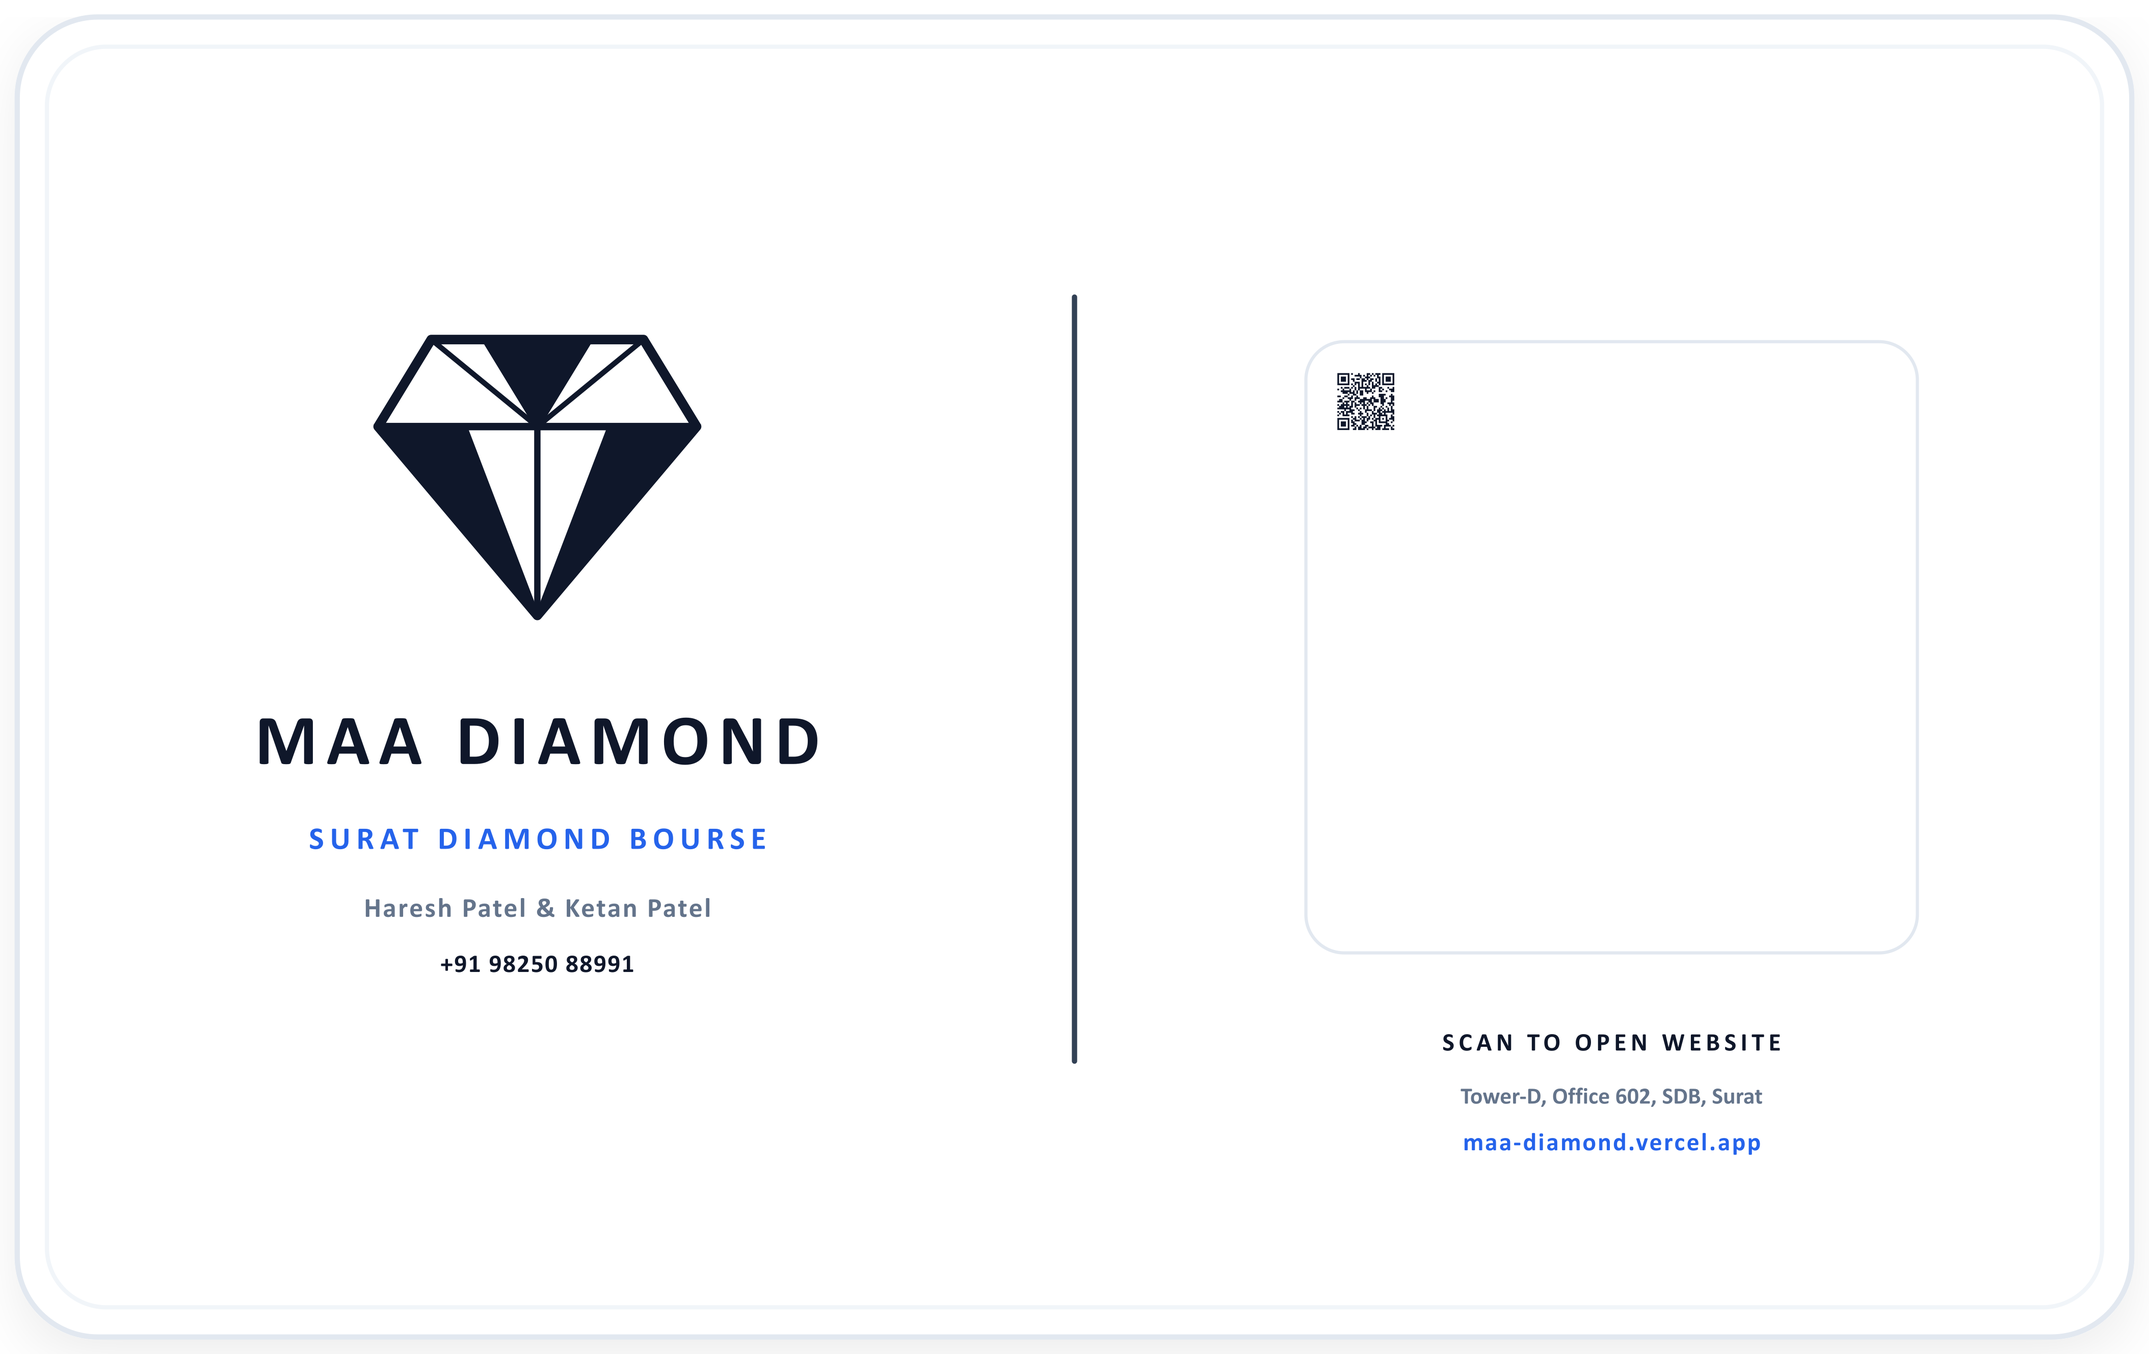
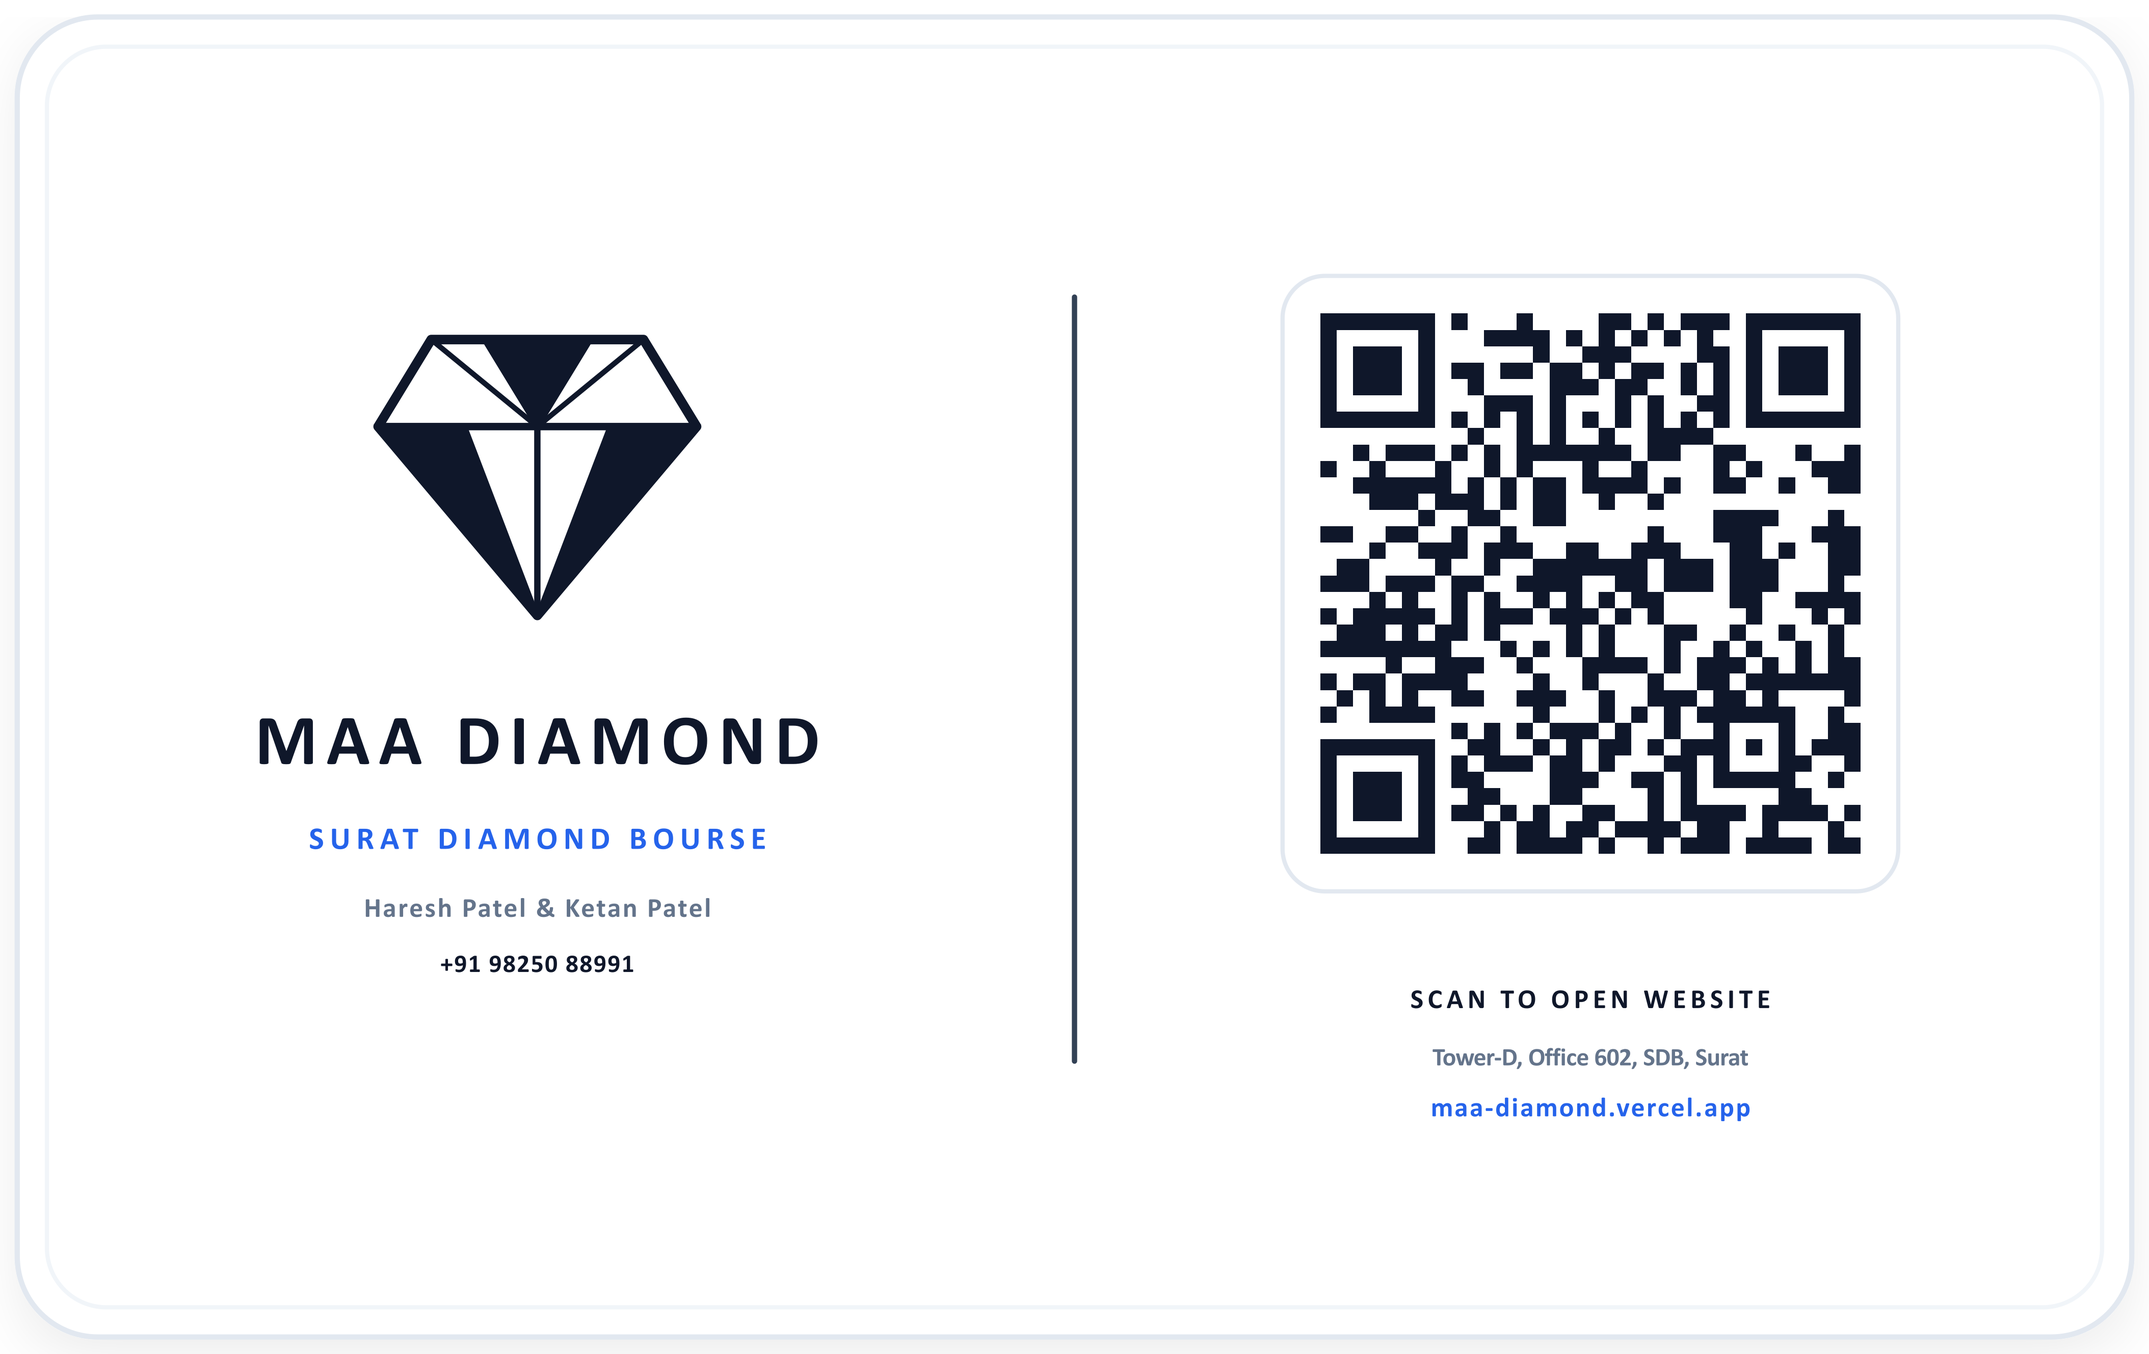
fix: resize QR code on card to full 270px container and update card studio generator

Changed region(s): [[0.5902, 0.2186, 0.9009, 0.6558], [0.6524, 0.7182, 0.8387, 0.8743]]

diff --git a/frontend/src/app/card-studio/page.tsx b/frontend/src/app/card-studio/page.tsx
@@ -79,12 +79,14 @@ export default function CardStudioPage() {
       },
     });
 
+    const viewBoxMatch = rawQrSvg.match(/viewBox="0 0 (\d+) (\d+)"/);
+    const vbSize = viewBoxMatch ? parseInt(viewBoxMatch[1], 10) : 35;
     const qrInner = rawQrSvg.replace(/<svg[^>]*>/, "").replace(/<\/svg>/, "").trim();
 
     let svgContent = "";
 
     if (orientation === "portrait") {
-      // Portrait CR80 (638 x 1012 px) - Exact Replica of Screenshot 1
+      // Portrait CR80 (638 x 1012 px)
       svgContent = `<?xml version="1.0" encoding="UTF-8"?>
 <svg xmlns="http://www.w3.org/2000/svg" width="638" height="1012" viewBox="0 0 638 1012">
   <defs>
@@ -96,7 +98,7 @@ export default function CardStudioPage() {
   <!-- PVC Card Base (Clean White with Rounded Corners R=40) -->
   <rect x="8" y="8" width="622" height="996" rx="40" ry="40" fill="${bgColor}" stroke="#E2E8F0" stroke-width="2.5" filter="url(#cardShadow)"/>
 
-  <!-- TOP SECTION: BRAND & DIAMOND EMBLEM (Exact Replica of Screenshot 1) -->
+  <!-- TOP SECTION: BRAND & DIAMOND EMBLEM -->
   <g transform="translate(60, 60)">
     
     <!-- Left: Brand Name & Details -->
@@ -107,7 +109,7 @@ export default function CardStudioPage() {
       <text x="0" y="148" font-family="Calibri, 'Segoe UI', Arial, sans-serif" font-size="13" font-weight="600" fill="#334155">${phone}  •  info@maadiamond.com</text>
     </g>
 
-    <!-- Right: Geometric Diamond Emblem (Modeled on Screenshot 1) -->
+    <!-- Right: Geometric Diamond Emblem -->
     <g transform="translate(370, 40)">
       <polygon points="65,10 130,55 65,150 0,55" fill="none" stroke="${strokeColor}" stroke-width="4.5" stroke-linejoin="round"/>
       <line x1="32" y1="55" x2="98" y2="55" stroke="${strokeColor}" stroke-width="3"/>
@@ -119,60 +121,68 @@ export default function CardStudioPage() {
     </g>
   </g>
 
-  <!-- HORIZONTAL DIVIDING LINE (Matching Screenshot 1) -->
+  <!-- HORIZONTAL DIVIDING LINE -->
   <line x1="60" y1="320" x2="578" y2="320" stroke="${strokeColor}" stroke-width="2.5" stroke-linecap="round"/>
 
-  <!-- BOTTOM SECTION: LARGE CRISP QR CODE -->
-  <g transform="translate(139, 390)">
+  <!-- BOTTOM SECTION: FULL-SIZE CRISP QR CODE (Centered) -->
+  <g transform="translate(139, 380)">
     <rect x="-16" y="-16" width="392" height="392" rx="20" fill="${bgColor}" stroke="#F1F5F9" stroke-width="2"/>
-    <g transform="scale(1.2)">
+    <svg x="0" y="0" width="360" height="360" viewBox="0 0 ${vbSize} ${vbSize}" shape-rendering="crispEdges">
       ${qrInner}
-    </g>
+    </svg>
   </g>
 
   <!-- Bottom Captions -->
-  <text x="319" y="865" font-family="Calibri, 'Segoe UI', Arial, sans-serif" font-size="14" font-weight="800" fill="${textColor}" text-anchor="middle" letter-spacing="3">SCAN TO VIEW DIGITAL VCARD &amp; INVENTORY</text>
+  <text x="319" y="865" font-family="Calibri, 'Segoe UI', Arial, sans-serif" font-size="14" font-weight="800" fill="${textColor}" text-anchor="middle" letter-spacing="3">SCAN TO OPEN WEBSITE</text>
   <text x="319" y="905" font-family="Calibri, 'Segoe UI', Arial, sans-serif" font-size="12" font-weight="600" fill="#64748B" text-anchor="middle">Tower-D, Office 602, Surat Diamond Bourse, Khajod, Surat - 395007</text>
   <text x="319" y="935" font-family="Calibri, 'Segoe UI', Arial, sans-serif" font-size="13" font-weight="700" fill="${subColor}" text-anchor="middle" letter-spacing="1.5">${websiteUrl}</text>
 </svg>`;
     } else {
-      // Landscape CR80 (1012 x 638 px)
+      // Landscape CR80 (1012 x 638 px) - Matching Exactly the Reference Card
       svgContent = `<?xml version="1.0" encoding="UTF-8"?>
 <svg xmlns="http://www.w3.org/2000/svg" width="1012" height="638" viewBox="0 0 1012 638">
-  <rect x="8" y="8" width="996" height="622" rx="36" fill="${bgColor}" stroke="#E2E8F0" stroke-width="3"/>
-  
-  <!-- Left Side: Details -->
-  <g transform="translate(70, 90)">
-    <text x="0" y="45" font-family="Calibri, sans-serif" font-size="44" font-weight="900" fill="${textColor}" letter-spacing="4">${companyName}</text>
-    <text x="0" y="90" font-family="Calibri, sans-serif" font-size="18" font-weight="700" fill="${subColor}" letter-spacing="2">SURAT DIAMOND BOURSE</text>
-    <text x="0" y="150" font-family="Calibri, sans-serif" font-size="20" font-weight="bold" fill="${textColor}">${directors}</text>
-    <text x="0" y="185" font-family="Calibri, sans-serif" font-size="15" fill="#64748B">Certified Diamond Manufacturers &amp; Exporters</text>
-    <text x="0" y="245" font-family="Calibri, sans-serif" font-size="16" font-weight="bold" fill="${textColor}">${phone}</text>
-    <text x="0" y="275" font-family="Calibri, sans-serif" font-size="16" font-weight="bold" fill="${subColor}">${websiteUrl}</text>
-  </g>
+  <defs>
+    <filter id="cardShadow" x="-3%" y="-4%" width="106%" height="108%">
+      <feDropShadow dx="0" dy="8" stdDeviation="14" flood-color="#000000" flood-opacity="0.08"/>
+    </filter>
+  </defs>
 
-  <!-- Center Divider -->
-  <line x1="570" y1="80" x2="570" y2="558" stroke="#E2E8F0" stroke-width="2"/>
+  <rect x="8" y="8" width="996" height="622" rx="38" ry="38" fill="${bgColor}" stroke="#E2E8F0" stroke-width="2.5" filter="url(#cardShadow)"/>
+  <rect x="22" y="22" width="968" height="594" rx="28" ry="28" fill="none" stroke="#F1F5F9" stroke-width="2"/>
 
-  <!-- Right Side: QR Code & Emblem -->
-  <g transform="translate(640, 90)">
-    <!-- Mini Diamond Emblem -->
-    <g transform="translate(100, 0)">
-      <polygon points="40,5 80,30 40,85 0,30" fill="none" stroke="${strokeColor}" stroke-width="3"/>
-      <polygon points="40,5 0,30 40,85" fill="${strokeColor}" fill-opacity="0.8"/>
-      <polygon points="40,5 80,30 40,85" fill="${subColor}" fill-opacity="0.4"/>
+  <!-- Left Half: Diamond Emblem & Brand Details -->
+  <g transform="translate(253, 0)">
+    <g transform="translate(-80, 145)">
+      <polygon points="30,15 130,15 155,56 80,145 5,56" fill="none" stroke="${strokeColor}" stroke-width="4.5" stroke-linejoin="round"/>
+      <line x1="5" y1="56" x2="155" y2="56" stroke="${strokeColor}" stroke-width="3.5"/>
+      <polygon points="55,15 105,15 80,56" fill="${strokeColor}" stroke="${strokeColor}" stroke-width="2.5"/>
+      <line x1="30" y1="15" x2="80" y2="56" stroke="${strokeColor}" stroke-width="2.5"/>
+      <line x1="130" y1="15" x2="80" y2="56" stroke="${strokeColor}" stroke-width="2.5"/>
+      <line x1="80" y1="56" x2="80" y2="145" stroke="${strokeColor}" stroke-width="3"/>
+      <polygon points="5,56 46,56 80,145" fill="${strokeColor}" stroke="${strokeColor}" stroke-width="2"/>
+      <polygon points="155,56 114,56 80,145" fill="${strokeColor}" stroke="${strokeColor}" stroke-width="2"/>
     </g>
 
-    <!-- QR Code -->
-    <g transform="translate(0, 110)">
-      <rect x="0" y="0" width="280" height="280" rx="16" fill="#FFFFFF" stroke="#E2E8F0" stroke-width="1.5"/>
-      <g transform="translate(15, 15) scale(0.78)">
-        ${qrInner}
-      </g>
-    </g>
-
-    <text x="140" y="425" font-family="Calibri, sans-serif" font-size="12" font-weight="bold" fill="${textColor}" text-anchor="middle" letter-spacing="2">SCAN TO VIEW VCARD</text>
+    <text x="0" y="360" font-family="'Cinzel', 'Playfair Display', Calibri, 'Segoe UI', Arial, sans-serif" font-size="34" font-weight="900" fill="${textColor}" text-anchor="middle" letter-spacing="4">${companyName}</text>
+    <text x="0" y="400" font-family="Calibri, 'Segoe UI', Arial, sans-serif" font-size="14.5" font-weight="800" fill="${subColor}" text-anchor="middle" letter-spacing="3">SURAT DIAMOND BOURSE</text>
+    <text x="0" y="432" font-family="Calibri, 'Segoe UI', Arial, sans-serif" font-size="12.5" font-weight="600" fill="#64748B" text-anchor="middle" letter-spacing="1">${directors}</text>
+    <text x="0" y="458" font-family="Calibri, 'Segoe UI', Arial, sans-serif" font-size="12" font-weight="700" fill="${textColor}" text-anchor="middle" letter-spacing="0.5">${phone}</text>
   </g>
+
+  <!-- Center Vertical Divider Line -->
+  <line x1="506" y1="140" x2="506" y2="500" stroke="#334155" stroke-width="2.5" stroke-linecap="round"/>
+
+  <!-- Right Half: Full-Size Scannable QR Code -->
+  <g transform="translate(614, 140)">
+    <rect x="-10" y="-10" width="290" height="290" rx="20" fill="#FFFFFF" stroke="#E2E8F0" stroke-width="2"/>
+    <svg x="0" y="0" width="270" height="270" viewBox="0 0 ${vbSize} ${vbSize}" shape-rendering="crispEdges">
+      ${qrInner}
+    </svg>
+  </g>
+
+  <text x="749" y="475" font-family="Calibri, 'Segoe UI', Arial, sans-serif" font-size="13" font-weight="900" fill="${textColor}" text-anchor="middle" letter-spacing="2">SCAN TO OPEN WEBSITE</text>
+  <text x="749" y="502" font-family="Calibri, 'Segoe UI', Arial, sans-serif" font-size="11.5" font-weight="600" fill="#64748B" text-anchor="middle">Tower-D, Office 602, SDB, Surat</text>
+  <text x="749" y="526" font-family="Calibri, 'Segoe UI', Arial, sans-serif" font-size="12.5" font-weight="800" fill="${subColor}" text-anchor="middle" letter-spacing="1">${websiteUrl}</text>
 </svg>`;
     }
 

diff --git a/generate-vercel-qr-card.js b/generate-vercel-qr-card.js
@@ -7,9 +7,20 @@ const TARGET_URL = 'https://maa-diamond.vercel.app';
 const ARTIFACT_DIR = 'C:/Users/DELL/.gemini/antigravity/brain/35cac826-a18a-47fb-a6b1-332873d2f70f';
 
 async function generate() {
-  console.log(`Generating QR code and Card for: ${TARGET_URL}`);
+  console.log(`Generating full-size QR code for: ${TARGET_URL}`);
 
-  // 1. Generate standalone high-res QR Code (SVG & PNG)
+  // 1. Standalone high-res 1024x1024 QR Code PNG
+  await QRCode.toFile('frontend/public/maa-diamond-website-qr.png', TARGET_URL, {
+    width: 1024,
+    margin: 2,
+    errorCorrectionLevel: 'H',
+    color: {
+      dark: '#0f172a',
+      light: '#ffffff',
+    },
+  });
+
+  // Standalone QR Code SVG
   const standaloneQrSvg = await QRCode.toString(TARGET_URL, {
     type: 'svg',
     margin: 2,
@@ -21,30 +32,9 @@ async function generate() {
   });
 
   fs.writeFileSync('frontend/public/maa-diamond-website-qr.svg', standaloneQrSvg);
-  if (fs.existsSync(ARTIFACT_DIR)) {
-    fs.writeFileSync(path.join(ARTIFACT_DIR, 'maa-diamond-website-qr.svg'), standaloneQrSvg);
-  }
 
-  await QRCode.toFile('frontend/public/maa-diamond-website-qr.png', TARGET_URL, {
-    width: 1024,
-    margin: 2,
-    errorCorrectionLevel: 'H',
-    color: {
-      dark: '#0f172a',
-      light: '#ffffff',
-    },
-  });
-
-  if (fs.existsSync(ARTIFACT_DIR)) {
-    fs.copyFileSync(
-      'frontend/public/maa-diamond-website-qr.png',
-      path.join(ARTIFACT_DIR, 'maa-diamond-website-qr.png')
-    );
-  }
-  console.log('✓ Standalone QR code saved (SVG & PNG 1024x1024)');
-
-  // 2. Generate QR SVG path specifically for the Card
-  const cardQrSvg = await QRCode.toString(TARGET_URL, {
+  // 2. Generate vector QR for the card
+  const rawSvg = await QRCode.toString(TARGET_URL, {
     type: 'svg',
     margin: 1,
     errorCorrectionLevel: 'H',
@@ -54,7 +44,9 @@ async function generate() {
     },
   });
 
-  const qrInner = cardQrSvg
+  const viewBoxMatch = rawSvg.match(/viewBox="0 0 (\d+) (\d+)"/);
+  const vbSize = viewBoxMatch ? parseInt(viewBoxMatch[1], 10) : 35;
+  const qrInnerPaths = rawSvg
     .replace(/<svg[^>]*>/, '')
     .replace(/<\/svg>/, '')
     .trim();
@@ -71,7 +63,7 @@ async function generate() {
   <!-- PVC Card Base (Clean Luxury White with Rounded Corners R=38) -->
   <rect x="8" y="8" width="996" height="622" rx="38" ry="38" fill="#FFFFFF" stroke="#E2E8F0" stroke-width="2.5" filter="url(#cardShadow)"/>
 
-  <!-- Outer Double Luxury Inset Border (Matching user's Screenshot) -->
+  <!-- Outer Double Luxury Inset Border -->
   <rect x="22" y="22" width="968" height="594" rx="28" ry="28" fill="none" stroke="#F1F5F9" stroke-width="2"/>
 
   <!-- ======================================================== -->
@@ -104,7 +96,7 @@ async function generate() {
       <polygon points="155,56 114,56 80,145" fill="#0F172A" stroke="#0F172A" stroke-width="2"/>
     </g>
 
-    <!-- Brand Typography (Matching user's Screenshot) -->
+    <!-- Brand Typography -->
     <text x="0" y="360" font-family="'Cinzel', 'Playfair Display', Calibri, 'Segoe UI', Arial, sans-serif" font-size="34" font-weight="900" fill="#0F172A" text-anchor="middle" letter-spacing="4">MAA DIAMOND</text>
     <text x="0" y="400" font-family="Calibri, 'Segoe UI', Arial, sans-serif" font-size="14.5" font-weight="800" fill="#2563EB" text-anchor="middle" letter-spacing="3">SURAT DIAMOND BOURSE</text>
     <text x="0" y="432" font-family="Calibri, 'Segoe UI', Arial, sans-serif" font-size="12.5" font-weight="600" fill="#64748B" text-anchor="middle" letter-spacing="1">Haresh Patel &amp; Ketan Patel</text>
@@ -112,37 +104,40 @@ async function generate() {
   </g>
 
   <!-- ======================================================== -->
-  <!-- CENTER VERTICAL DIVIDER LINE (Exact Replica of Screenshot) -->
+  <!-- CENTER VERTICAL DIVIDER LINE -->
   <!-- ======================================================== -->
   <line x1="506" y1="140" x2="506" y2="500" stroke="#334155" stroke-width="2.5" stroke-linecap="round"/>
 
   <!-- ======================================================== -->
-  <!-- RIGHT HALF: CRISP LIVE SCANNABLE VERCEL WEBSITE QR CODE -->
+  <!-- RIGHT HALF: PROMINENT LARGE SCANNABLE QR CODE -->
   <!-- ======================================================== -->
-  <g transform="translate(629, 175)">
-    <!-- QR Card Container Pad -->
-    <rect x="-14" y="-14" width="288" height="288" rx="18" fill="#FFFFFF" stroke="#E2E8F0" stroke-width="1.5"/>
+  <g transform="translate(614, 140)">
+    <!-- QR Card Container Pad (290x290 rounded container) -->
+    <rect x="-10" y="-10" width="290" height="290" rx="20" fill="#FFFFFF" stroke="#E2E8F0" stroke-width="2"/>
     
-    <!-- Rendered QR Vector (Points to https://maa-diamond.vercel.app) -->
-    <g transform="scale(0.8125)">
-      ${qrInner}
-    </g>
+    <!-- Full-Size Razor-Sharp Vector QR Code filling the entire 270x270 container -->
+    <svg x="0" y="0" width="270" height="270" viewBox="0 0 ${vbSize} ${vbSize}" shape-rendering="crispEdges">
+      ${qrInnerPaths}
+    </svg>
   </g>
 
   <!-- Action Callout & Website Footer -->
-  <text x="759" y="495" font-family="Calibri, 'Segoe UI', Arial, sans-serif" font-size="12" font-weight="900" fill="#0F172A" text-anchor="middle" letter-spacing="2">SCAN TO OPEN WEBSITE</text>
-  <text x="759" y="520" font-family="Calibri, 'Segoe UI', Arial, sans-serif" font-size="11" font-weight="600" fill="#64748B" text-anchor="middle">Tower-D, Office 602, SDB, Surat</text>
-  <text x="759" y="542" font-family="Calibri, 'Segoe UI', Arial, sans-serif" font-size="11.5" font-weight="800" fill="#2563EB" text-anchor="middle" letter-spacing="1">maa-diamond.vercel.app</text>
+  <text x="749" y="475" font-family="Calibri, 'Segoe UI', Arial, sans-serif" font-size="13" font-weight="900" fill="#0F172A" text-anchor="middle" letter-spacing="2">SCAN TO OPEN WEBSITE</text>
+  <text x="749" y="502" font-family="Calibri, 'Segoe UI', Arial, sans-serif" font-size="11.5" font-weight="600" fill="#64748B" text-anchor="middle">Tower-D, Office 602, SDB, Surat</text>
+  <text x="749" y="526" font-family="Calibri, 'Segoe UI', Arial, sans-serif" font-size="12.5" font-weight="800" fill="#2563EB" text-anchor="middle" letter-spacing="1">maa-diamond.vercel.app</text>
 
 </svg>`;
 
-  // 4. Save SVG Card files
+  // 4. Save SVG files
   fs.writeFileSync('frontend/public/maa-diamond-card-horizontal.svg', horizontalCardSvg);
   fs.writeFileSync('frontend/public/maa-diamond-card.svg', horizontalCardSvg);
   if (fs.existsSync(ARTIFACT_DIR)) {
     fs.writeFileSync(path.join(ARTIFACT_DIR, 'maa-diamond-card-horizontal.svg'), horizontalCardSvg);
+    fs.writeFileSync(path.join(ARTIFACT_DIR, 'maa-diamond-card.svg'), horizontalCardSvg);
+    fs.copyFileSync('frontend/public/maa-diamond-website-qr.png', path.join(ARTIFACT_DIR, 'maa-diamond-website-qr.png'));
+    fs.writeFileSync(path.join(ARTIFACT_DIR, 'maa-diamond-website-qr.svg'), standaloneQrSvg);
   }
-  console.log('✓ Horizontal SVG card saved');
+  console.log('✓ Vector SVG cards saved');
 
   // 5. Convert SVG to High-Resolution 300 DPI PNG using Sharp
   const pngBuffer = await sharp(Buffer.from(horizontalCardSvg), { density: 300 })
@@ -155,7 +150,7 @@ async function generate() {
     fs.writeFileSync(path.join(ARTIFACT_DIR, 'maa-diamond-card-horizontal.png'), pngBuffer);
     fs.writeFileSync(path.join(ARTIFACT_DIR, 'maa-diamond-card-preview.png'), pngBuffer);
   }
-  console.log('✓ High-resolution PNG card saved (300 DPI print-ready)');
+  console.log('✓ High-resolution PNG card saved with FULL-SIZE QR code (300 DPI)');
 }
 
 generate().catch(console.error);
